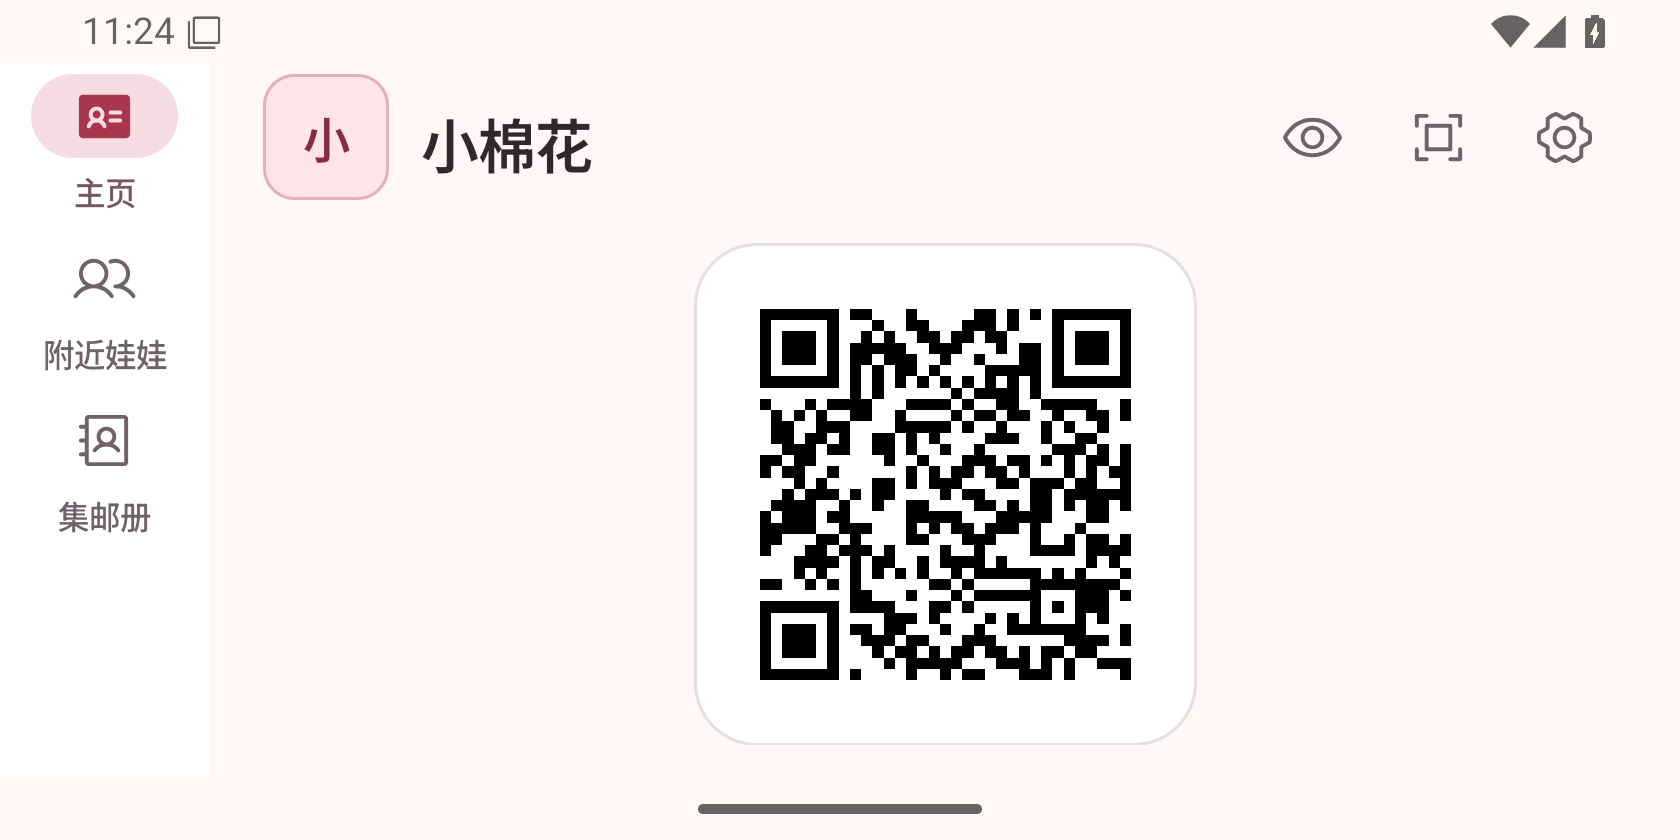
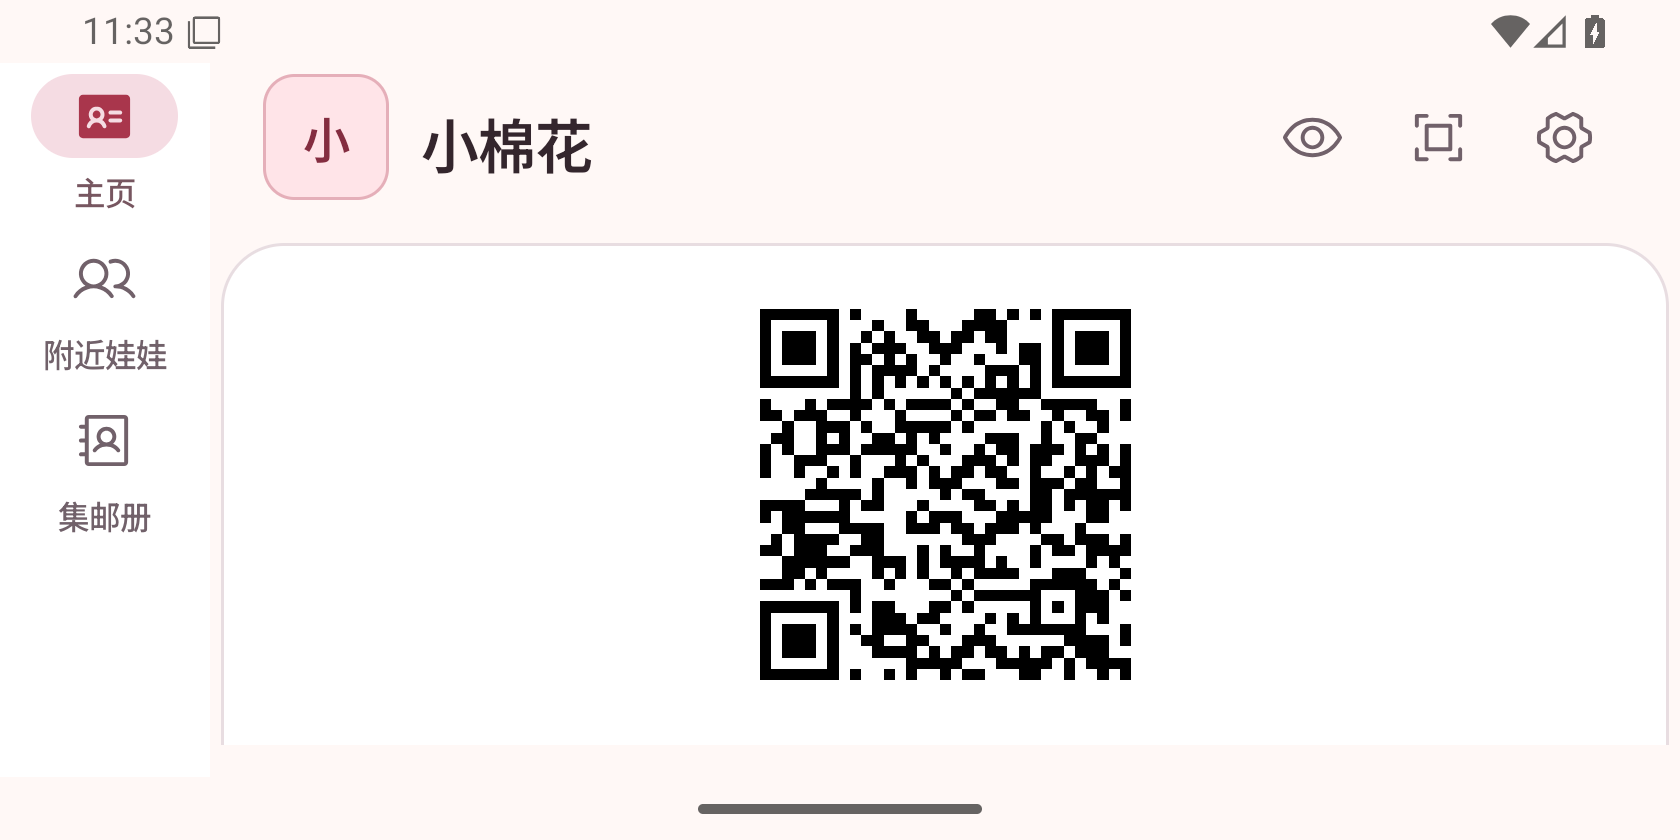
fix: 将碰一碰提示并入二维码气泡并缩小两侧边距

diff --git a/app/src/main/kotlin/app/pengwa/ui/FaceToFacePage.kt b/app/src/main/kotlin/app/pengwa/ui/FaceToFacePage.kt
@@ -5,6 +5,7 @@ import android.provider.Settings
 import androidx.activity.compose.BackHandler
 import androidx.activity.compose.rememberLauncherForActivityResult
 import androidx.activity.result.contract.ActivityResultContracts
+import androidx.compose.foundation.clickable
 import androidx.compose.foundation.BorderStroke
 import android.graphics.Bitmap
 import androidx.compose.foundation.Image
@@ -38,6 +39,7 @@ import androidx.compose.ui.Alignment
 import androidx.compose.ui.Modifier
 import androidx.compose.ui.platform.LocalContext
 import androidx.compose.ui.platform.LocalResources
+import androidx.compose.ui.semantics.Role
 import androidx.compose.ui.res.stringResource
 import androidx.compose.ui.text.style.TextAlign
 import androidx.compose.ui.unit.Dp
@@ -51,7 +53,6 @@ import app.pengwa.pengWa
 import app.pengwa.nfc.NfcWallet
 import app.pengwa.qr.QrEncoder
 import app.pengwa.qr.QrPayload
-import app.pengwa.ui.theme.PageGutter
 
 /**
  * NFC 与二维码共用的面对面交换页，扫一扫一键打开相机。
@@ -139,13 +140,14 @@ internal fun FaceToFacePageContent(
         val compact = maxHeight < 300.dp && maxWidth >= 480.dp
         val codeSize = minOf(200.dp, maxHeight - 40.dp).coerceAtLeast(48.dp)
         Column(
-            Modifier.fillMaxSize().padding(horizontal = PageGutter, vertical = 12.dp)
+            Modifier.fillMaxSize().padding(horizontal = 4.dp, vertical = 12.dp)
                 .verticalScroll(rememberScrollState()),
             verticalArrangement = Arrangement.spacedBy(12.dp),
             horizontalAlignment = Alignment.CenterHorizontally,
         ) {
-            ExchangeQrCard(identity, onExpand = { expanded = true }, showHint = !compact, codeSize = codeSize)
-            NfcStatus(nfcState, onOpenNfcSettings, onOpenLab = onOpenLab)
+            ExchangeQrCard(identity, onExpand = { expanded = true }, showHint = !compact, codeSize = codeSize) {
+                NfcStatus(nfcState, onOpenNfcSettings, onOpenLab = onOpenLab)
+            }
             NfcWalletInstructions(nfcState, defaultWallet, onRequestWallet)
         }
     }
@@ -186,17 +188,31 @@ private fun WalletHelp(onRequestWallet: () -> Unit) {
 }
 
 @Composable
-private fun ExchangeQrCard(identity: Identity, onExpand: () -> Unit, modifier: Modifier = Modifier, showHint: Boolean = true, codeSize: Dp = 200.dp) {
+private fun ExchangeQrCard(
+    identity: Identity,
+    onExpand: () -> Unit,
+    modifier: Modifier = Modifier,
+    showHint: Boolean = true,
+    codeSize: Dp = 200.dp,
+    footer: @Composable () -> Unit,
+) {
     Surface(
-        onClick = onExpand, modifier = modifier.widthIn(max = if (showHint) 340.dp else codeSize + 16.dp).fillMaxWidth(),
+        modifier = modifier.fillMaxWidth(),
         shape = MaterialTheme.shapes.large, color = MaterialTheme.colorScheme.surface,
         border = BorderStroke(1.dp, MaterialTheme.colorScheme.outlineVariant),
     ) {
         Column(Modifier.padding(if (showHint) 12.dp else 8.dp), horizontalAlignment = Alignment.CenterHorizontally,
             verticalArrangement = Arrangement.spacedBy(8.dp)) {
-            QrCodeView(remember(identity) { QrPayload.encode(identity) }, if (showHint) Modifier.widthIn(max = 200.dp).fillMaxWidth() else Modifier.size(codeSize))
-            if (showHint) Text(stringResource(R.string.qr_hint), style = MaterialTheme.typography.bodyMedium,
-                color = MaterialTheme.colorScheme.onSurfaceVariant, textAlign = TextAlign.Center)
+            Column(
+                Modifier.fillMaxWidth().clickable(role = Role.Button, onClick = onExpand),
+                horizontalAlignment = Alignment.CenterHorizontally,
+                verticalArrangement = Arrangement.spacedBy(8.dp),
+            ) {
+                QrCodeView(remember(identity) { QrPayload.encode(identity) }, if (showHint) Modifier.widthIn(max = 200.dp).fillMaxWidth() else Modifier.size(codeSize))
+                if (showHint) Text(stringResource(R.string.qr_hint), modifier = Modifier.widthIn(max = 340.dp), style = MaterialTheme.typography.bodyMedium,
+                    color = MaterialTheme.colorScheme.onSurfaceVariant, textAlign = TextAlign.Center)
+            }
+            footer()
         }
     }
 }

diff --git a/docs/screenshots/card-qr-actions/README.md b/docs/screenshots/card-qr-actions/README.md
@@ -2,8 +2,8 @@
 
 - 删除底部通栏“扫一扫”，改为右上角的取景框式扫码图标（Phosphor Scan）；保留 48dp 触控区域和“扫一扫”无障碍名称。
 - 编辑入口收进名片预览：点击眼睛图标“查看我的卡片”，再点“编辑”；保存后返回预览。同步更新首次创建名片的说明。
-- 二维码使用圆角气泡卡片；二维码本身保留四模块识别静区，取消原来额外的圆角白色内框。
-- 碰一碰放在二维码下方，使用 64dp 大图标和居中文字，不使用背景卡片，显示“碰一碰，交换名片”及贴近手机 NFC 区域的说明；关闭、不支持 NFC 时显示对应指引。
+- 二维码与碰一碰提示放在同一个圆角气泡内，气泡左右边距为 4dp；二维码本身保留四模块识别静区，取消原来额外的圆角白色内框。仅二维码区域可点击放大，碰一碰提示与设置按钮不会触发放大。
+- 碰一碰位于气泡内部的二维码下方，使用 64dp 大图标和居中文字，不单独增加状态卡，显示“碰一碰，交换名片”及贴近手机 NFC 区域的说明；关闭、不支持 NFC 时显示对应指引。
 - 移除“出示／读取”模式选择，不增加开始按钮。双方保持主页打开，由应用自动协调 NFC 角色；引导图解同步更新。
 
 ## 运行截图
@@ -37,7 +37,7 @@
 2. 启动 `adb shell am start -n app.pengwa.debug/app.pengwa.ui.UiPreviewActivity --es screen home --ei sample 1`，查看 NFC 就绪且已设置钱包的固定场景；sample 3 为 NFC 未开启，4 为设备不支持。应没有角色选项或开始按钮。
 3. 将 screen 改为 `my-card` 查看预览内编辑入口；点击主页二维码查看放大状态。使用 `adb shell cmd uimode night yes`／`no` 切换主题。
 4. 正常启动应用，使用测试身份完成首次创建。检查名片预览内的编辑说明，进入扩列图解并选择“碰一碰”，确认无需选择模式的文案。
-5. 在主页点击右上角“扫一扫”，允许相机权限后应进入取景界面；点击“关闭”或系统返回，应恢复二维码。点击眼睛图标“查看我的卡片”，点击“编辑”，保存后应回到预览；点击“返回”回到主页。
+5. 在主页点击右上角“扫一扫”，允许相机权限后应进入取景界面；点击“关闭”或系统返回，应恢复二维码。点击气泡内的碰一碰文字，确认不会放大二维码；点击二维码应能正常放大并关闭。点击眼睛图标“查看我的卡片”，点击“编辑”，保存后应回到预览；点击“返回”回到主页。
 6. 直接解码运行截图，核对主页及放大二维码在深浅主题、375dp 手机和横屏下均可识别。
 7. 用 `wm size` 切换上述尺寸、`settings put system font_scale 2.0` 验证大字体；结束后恢复尺寸及字体。
 
